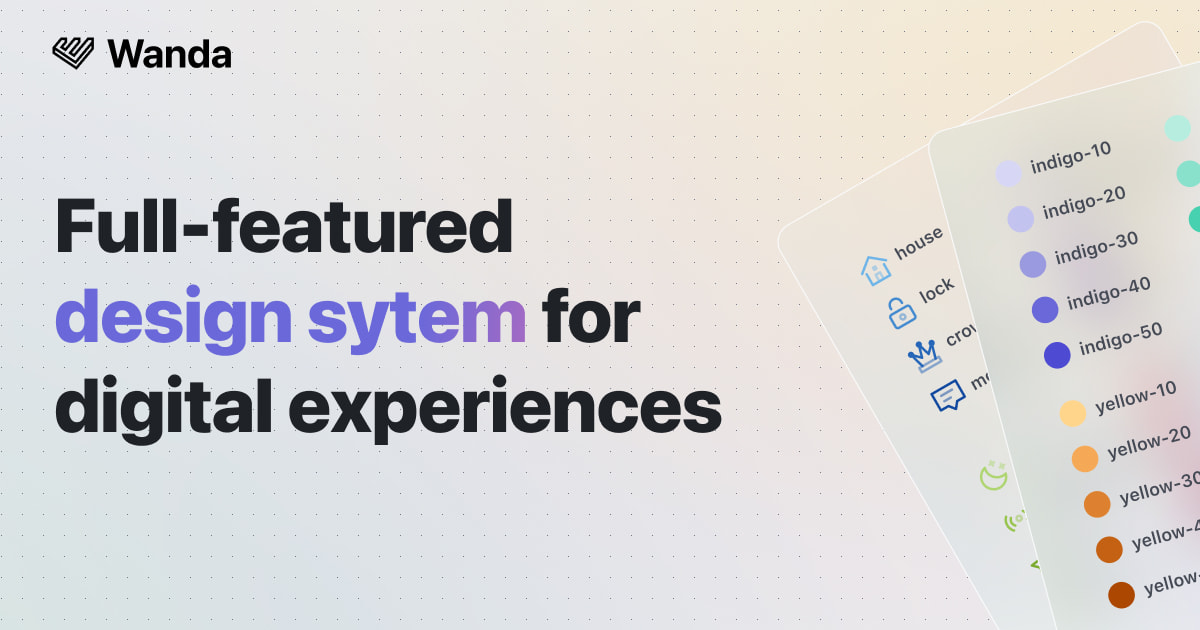
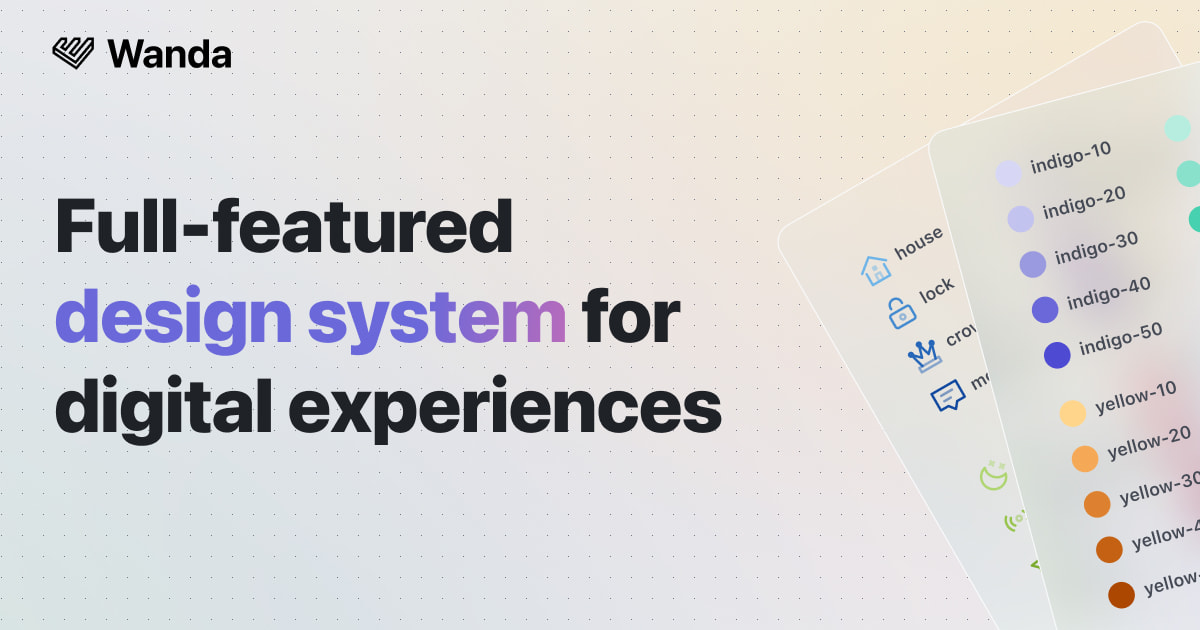
chore: init home sections

Changed region(s): [[0.3083, 0.4524, 0.5858, 0.5429]]

diff --git a/apps/docs/src/components/home/designers/designers.tsx b/apps/docs/src/components/home/designers/designers.tsx
@@ -1,0 +1,57 @@
+import {
+  Button,
+  Container, Stack, Tab, Text, Title,
+} from '@wonderflow/react-components';
+import clsx from 'clsx';
+import Link from 'next/link';
+
+import { GradientText } from '@/components/shared/gradient-text';
+import { Section } from '@/components/shared/section';
+import { useResponsiveContext } from '@/context/responsive';
+
+import styles from './designers.module.css';
+
+export const Designers: FCClass = ({
+  className,
+}) => {
+  const { matches } = useResponsiveContext();
+
+  return (
+    <Section className={clsx(styles.Designers, className)} minHeight={!matches.medium ? '60vh' : '72vh'} vPadding={192}>
+      <Container dimension="large">
+        <Stack direction={matches.large ? 'row' : 'column'} columnGap={32} wrap>
+          <Stack rowGap={56} className={styles.Content}>
+
+            <Stack rowGap={4}>
+              <Text weight="bold"><GradientText color="indigo">For designers</GradientText></Text>
+              <Title as="h2" level="2" maxWidth="16ch">Everything you need. When you need it. </Title>
+            </Stack>
+
+            <Tab className={styles.Tab} defaultValue="foundation">
+              <Tab.Panel label="Foundation" icon={matches.large ? 'layer-group' : undefined} value="foundation">
+                <Stack rowGap={32} vPadding={56} hAlign="start">
+                  <Text size={22} dimmed={6}>
+                    Colors, typography, iconography, themes, and much more,
+                    everything a designer needs, Wanda provides it.
+                  </Text>
+                  <Link href="/design/foundation/colors" passHref>
+                    <Button as="a" kind="secondary" dimension="big">Read More</Button>
+                  </Link>
+                </Stack>
+              </Tab.Panel>
+
+              <Tab.Panel label="Icons" icon={matches.large ? 'grip-vertical' : undefined} value="icons">
+                ciao
+              </Tab.Panel>
+
+              <Tab.Panel label="Motions" icon={matches.large ? 'signal-stream' : undefined} value="motions">
+                ciao
+              </Tab.Panel>
+
+            </Tab>
+          </Stack>
+        </Stack>
+      </Container>
+    </Section>
+  );
+};

diff --git a/apps/docs/src/components/home/mentions/mentions.tsx b/apps/docs/src/components/home/mentions/mentions.tsx
@@ -1,0 +1,39 @@
+import { Skeleton, Stack, Title } from '@wonderflow/react-components';
+import clsx from 'clsx';
+import dynamic from 'next/dynamic';
+import mentions from 'src/data/mentions';
+
+import { Carousel } from '@/components/shared/carousel';
+import { MentionCardProps } from '@/components/shared/mention-card';
+import { Section } from '@/components/shared/section';
+
+import styles from './mentions.module.css';
+
+const DynMentionCard = dynamic<MentionCardProps>(
+  async () => import('@/components/shared/mention-card').then(mod => mod.MentionCard),
+  {
+    ssr: false,
+    loading: () => <Skeleton height={96} width={215} borderRadius={16} />,
+  },
+);
+
+export const Mentions: FCClass = ({
+  className,
+  ...otherProps
+}) => (
+  <Section className={clsx(styles.Mentions)} vAlign="start" rowGap={24} fill={false} vPadding={32} {...otherProps}>
+    <Stack hAlign="center">
+      <Title as="h2" level="5">Mentioned and shared by</Title>
+    </Stack>
+    <Carousel>
+      {mentions.map(m => (
+        <DynMentionCard
+          key={m.name}
+          image={m.image}
+          name={m.name}
+          handle={m.handle}
+        />
+      ))}
+    </Carousel>
+  </Section>
+);

diff --git a/apps/docs/pages/index.tsx b/apps/docs/pages/index.tsx
@@ -1,33 +1,17 @@
-import { Stack, Title } from '@wonderflow/react-components';
 import type { NextPage } from 'next';
-import mentions from 'src/data/mentions';
 
-import { Carousel } from '@/components/home/carousel';
+import { Designers } from '@/components/home/designers';
 import { Hero } from '@/components/home/hero';
-import { MentionCard } from '@/components/shared/mention-card';
+import { Mentions } from '@/components/home/mentions';
 import { Meta } from '@/components/shared/meta';
-import { Section } from '@/components/shared/section';
 import { getPageStaticProps } from '@/core/get-page-props';
 
 const Home: NextPage = () => (
   <>
     <Meta />
     <Hero />
-    <Section vAlign="start" rowGap={24} fill={false} vPadding={32}>
-      <Stack hAlign="center">
-        <Title as="h2" level="5">Mentioned and shared by</Title>
-      </Stack>
-      <Carousel>
-        {mentions.map(m => (
-          <MentionCard
-            key={m.name}
-            image={m.image}
-            name={m.name}
-            handle={m.handle}
-          />
-        ))}
-      </Carousel>
-    </Section>
+    <Mentions />
+    <Designers />
   </>
 );
 

diff --git a/apps/docs/src/components/home/hero/hero.tsx b/apps/docs/src/components/home/hero/hero.tsx
@@ -22,7 +22,7 @@ export const Hero: FCClass = ({
 }) => {
   const { matches } = useResponsiveContext();
   const { scrollYProgress } = useViewportScroll();
-  const xInput = [0, 0.6];
+  const xInput = [0, 1];
   const background = useTransform(scrollYProgress, xInput, [
     `radial-gradient(circle at 30% -20%, rgba(44, 191, 111, 0.08) 0%, rgba(44, 191, 111, 0) 30%),
     radial-gradient(circle at 100% 0%, rgba(255, 235, 168, 0.14) 0%, rgba(255, 235, 168, 0) 40%),
@@ -52,7 +52,7 @@ export const Hero: FCClass = ({
           <Title maxWidth="20ch" textAlign="center" as="h1" level={matches.extraLarge ? '1' : '2'}>
             Full-featured
             {' '}
-            <GradientText>design sytem</GradientText>
+            <GradientText>design system</GradientText>
             {' '}
             for digital experiences
           </Title>

diff --git a/apps/docs/src/components/shared/carousel/carousel.tsx b/apps/docs/src/components/shared/carousel/carousel.tsx
@@ -15,7 +15,12 @@ export const Carousel: FCChildrenClass<CarouselProps> = ({
   const { matches } = useResponsiveContext();
 
   return (
-    <Container className={styles.Carousel} data-carousel-fade={matches.extraLarge} dimension={matches.extraLarge ? 'large' : 'full'} padding={!matches.extraLarge ? false : undefined}>
+    <Container
+      className={styles.Carousel}
+      data-carousel-fade={matches.extraLarge}
+      dimension={matches.extraLarge ? 'large' : 'full'}
+      padding={!matches.extraLarge ? false : undefined}
+    >
       <Marquee gradient={false} className={styles.Slider} {...otherProps}>
         {children}
       </Marquee>

diff --git a/apps/docs/src/components/home/designers/designers.module.css b/apps/docs/src/components/home/designers/designers.module.css
@@ -1,0 +1,29 @@
+@import '@wonderflow/react-components/core/utils/media.css';
+
+.Designers {
+  background:
+    radial-gradient(100vmin 100vmin at 60.59% 80%, rgb(104 210 217 / 8%) 0%, rgb(104 210 217 / 0%) 100%),
+    radial-gradient(100vmin 100vmin at 79.05% 150%, rgb(123 97 255 / 10%) 0%, rgb(123 97 255 / 0%) 100%);
+}
+
+.Content {
+
+  @media (--from-medium) {
+    max-width: 50%;
+  }
+}
+
+.Tab {
+  position: relative;
+
+  &::before {
+    content: '';
+    display: block;
+    position: absolute;
+    top: calc(token(--space-48) - 2px);
+    height: 2px;
+    width: 100vw;
+    right: 100%;
+    background: var(--dimmed-1);
+  }
+}

diff --git a/apps/docs/src/components/shared/mention-card/mention-card.tsx b/apps/docs/src/components/shared/mention-card/mention-card.tsx
@@ -1,6 +1,6 @@
 import { Avatar, Card, Text } from '@wonderflow/react-components';
 
-type MentionCardProps = {
+export type MentionCardProps = {
   image?: string;
   handle?: string;
   name: string;
@@ -26,7 +26,7 @@ export const MentionCard: FCClass<MentionCardProps> = ({
     )}
     {...otherProps}
   >
-    <Text size={16} weight="bold"><b>{name}</b></Text>
+    <Text color="var(--global-vibrancy-foreground)" size={16} weight="bold"><strong>{name}</strong></Text>
     <Text lineHeight="none" size={14} dimmed={5}>
       @
       {handle}

diff --git a/apps/docs/src/components/shared/section/section.tsx b/apps/docs/src/components/shared/section/section.tsx
@@ -3,15 +3,18 @@ import { CSSProperties } from 'react';
 
 type SectionProps = StackProps & {
   minHeight?: string;
+  position?: 'relative' | 'absolute';
 }
 
 export const Section: FCChildrenClass<SectionProps> = ({
   children,
   minHeight,
+  position = 'relative',
   style,
   ...otherProps
 }) => {
   const dynamicStyle: CSSProperties = {
+    position,
     minHeight,
   };
 

diff --git a/apps/docs/src/components/shared/gradient-text/gradient-text.module.css b/apps/docs/src/components/shared/gradient-text/gradient-text.module.css
@@ -10,8 +10,11 @@
     text-shadow: none;
   }
 
-
   &[data-gradient-text='rainbow'] {
     background-image: linear-gradient(92deg, #6a68d9 10%, #da6cae 60%, #f5a957 100%);
+  }
+
+  &[data-gradient-text='indigo'] {
+    background-image: linear-gradient(91deg, #9a9adf 0%, #4e4bd2 100%);
   }
 }

diff --git a/apps/docs/src/components/home/hero/hero.module.css b/apps/docs/src/components/home/hero/hero.module.css
@@ -31,5 +31,5 @@
   position: absolute;
   inset: 0;
   z-index: -1;
-  filter: saturate(1.8);
+  filter: saturate(2);
 }

diff --git a/apps/docs/src/components/shared/mention-card/index.ts b/apps/docs/src/components/shared/mention-card/index.ts
@@ -1,1 +1,2 @@
+export type { MentionCardProps } from './mention-card';
 export { MentionCard } from './mention-card';

diff --git a/apps/docs/src/components/home/mentions/mentions.module.css b/apps/docs/src/components/home/mentions/mentions.module.css
@@ -1,0 +1,3 @@
+.Mentions {
+  margin-top: calc(token(--space-64) * -1);
+}
